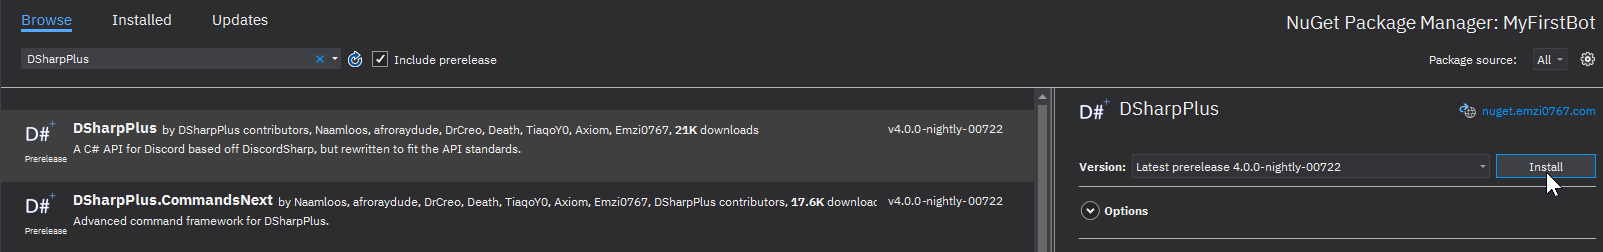
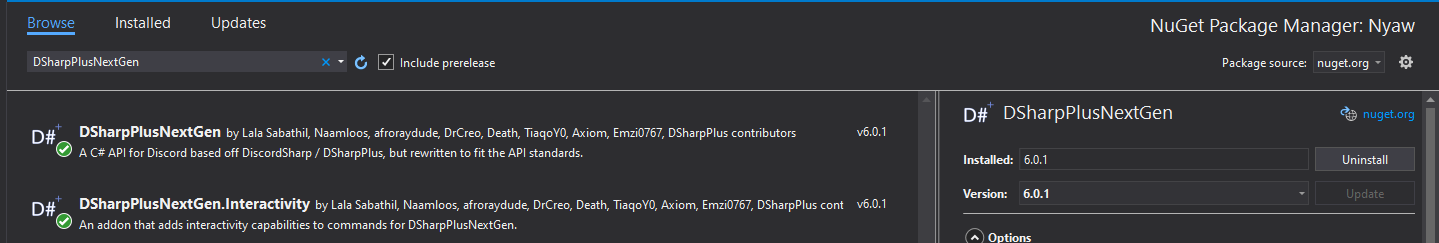
Updated first_bot.html

diff --git a/articles/basics/first_bot.html b/articles/basics/first_bot.html
@@ -97,15 +97,15 @@ If you&#39;d like, you can also change the directory that your project will be c
 Voilà! Your project has been created!</p>
 <p><img src="/images/basics_first_bot_04.png" alt="Visual Studio IDE"></p>
 <h2 id="install-package">Install Package</h2>
-<p>Now that you have a project created, you&#39;ll want to get DSharpPlus installed.
+<p>Now that you have a project created, you&#39;ll want to get DSharpPlus-NextGen installed.
 Locate the <em>solution explorer</em> on the right side, then right click on <code>Dependencies</code> and select <code>Manage NuGet Packages</code> from the context menu.</p>
 <p><img src="/images/basics_first_bot_05.png" alt="Dependencies Context Menu"></p>
 <p><br>
 You&#39;ll then be greeted by the NuGet package manager.</p>
-<p>Select the <code>Browse</code> tab towards the top left, then type <code>DSharpPlus</code> into the search text box with the Pre-release checkbox checked <strong>ON</strong>.</p>
+<p>Select the <code>Browse</code> tab towards the top left, then type <code>DSharpPlus-NextGen</code> into the search text box with the Pre-release checkbox checked <strong>ON</strong>.</p>
 <p><img src="/images/basics_first_bot_06.png" alt="NuGet Package Search"></p>
 <p><br>
-The first results should be the six DSharpPlus packages.</p>
+The first results should be the seven DSharpPlus-NextGen packages.</p>
 <p><img src="/images/basics_first_bot_07.png" alt="Search Results"></p>
 <table>
 <thead>
@@ -116,39 +116,43 @@ The first results should be the six DSharpPlus packages.</p>
 </thead>
 <tbody>
 <tr>
-<td style="text-align:center"><code>DSharpPlus</code></td>
+<td style="text-align:center"><code>DSharpPlusNextGen</code></td>
 <td style="text-align:center">Main package; Discord API client.</td>
 </tr>
 <tr>
-<td style="text-align:center"><code>DSharpPlus.CommandsNext</code></td>
+<td style="text-align:center"><code>DSharpPlusNextGen.CommandsNext</code></td>
 <td style="text-align:center">Add-on which provides a command framework.</td>
 </tr>
 <tr>
-<td style="text-align:center"><code>DSharpPlus.Interactivity</code></td>
+<td style="text-align:center"><code>DSharpPlusNextGen.Interactivity</code></td>
 <td style="text-align:center">Add-on which allows for interactive commands.</td>
 </tr>
 <tr>
-<td style="text-align:center"><code>DSharpPlus.Lavalink</code></td>
+<td style="text-align:center"><code>DSharpPlusNextGen.Lavalink</code></td>
 <td style="text-align:center">Client implementation for <a class="xref" href="../audio/lavalink/setup.html">Lavalink</a>. Useful for music bots.</td>
 </tr>
 <tr>
-<td style="text-align:center"><code>DSharpPlus.VoiceNext</code></td>
+<td style="text-align:center"><code>DSharpPlusNextGen.VoiceNext</code></td>
 <td style="text-align:center">Add-on which enables connectivity to Discord voice channels.</td>
 </tr>
 <tr>
-<td style="text-align:center"><code>DSharpPlus.Rest</code></td>
+  <td style="text-align:center"><code>DSharpPlusNextGen.SlashCommands</code></td>
+  <td style="text-align:center">Add-on which makes it easyer to work wiht slash commands.</td>
+</tr>
+<tr>
+<td style="text-align:center"><code>DSharpPlusNextGen.Rest</code></td>
 <td style="text-align:center">REST-only Discord client.</td>
 </tr>
 </tbody>
 </table>
 <p><br>
-We&#39;ll only need the <code>DSharpPlus</code> package for the basic bot we&#39;ll be writing in this article.<br>
-Select it from the list then click the <code>Install</code> button to the right (after verifing that you will be installing the <strong>latest 4.0 version</strong>).</p>
-<p><img src="/images/basics_first_bot_08.png" alt="Install DSharpPlus"></p>
+We&#39;ll only need the <code>DSharpPlus-NextGen</code> package for the basic bot we&#39;ll be writing in this article.<br>
+Select it from the list then click the <code>Install</code> button to the right (after verifing that you will be installing the <strong>latest 6.0.1 version</strong>).</p>
+<p><img src="/images/basics_first_bot_08.png" alt="Install DSharpPlus-NextGen"></p>
 <p>You&#39;re now ready to write some code!</p>
 <h2 id="first-lines-of-code">First Lines of Code</h2>
-<p>DSharpPlus implements <a href="https://docs.microsoft.com/en-us/dotnet/standard/asynchronous-programming-patterns/consuming-the-task-based-asynchronous-pattern">Task-based Asynchronous Pattern</a>.
-Because of this, the majority of DSharpPlus methods must be executed in a method marked as <code>async</code> so they can be properly <code>await</code>ed.</p>
+<p>DSharpPlus-NextGen implements <a href="https://docs.microsoft.com/en-us/dotnet/standard/asynchronous-programming-patterns/consuming-the-task-based-asynchronous-pattern">Task-based Asynchronous Pattern</a>.
+Because of this, the majority of DSharpPlus-NetxGen methods must be executed in a method marked as <code>async</code> so they can be properly <code>await</code>ed.</p>
 <p>Due to the way the compiler generates the underlying <a href="https://en.wikipedia.org/wiki/Common_Intermediate_Language">IL</a> code, 
 marking our <code>Main</code> method as <code>async</code> has the potential to cause problems. As a result, we must pass the program execution to an <code>async</code> method.</p>
 <p>Head back to your <em>Program.cs</em> tab and empty the <code>Main</code> method by deleting line 9.</p>
@@ -174,7 +178,7 @@ However, if you copy-pasted the snippet above, VS will complain about being unab
 We&#39;ll now create a new <code>DiscordClient</code> instance in our brand new asynchronous method.</p>
 <p>Create a new variable in <code>MainAsync</code> and assign it a new <code>DiscordClient</code> instance, then pass an instance of <code>DiscordConfiguration</code> to its constructor.
 Create an object initializer for <code>DiscordConfiguration</code> and populate the <code>Token</code> property with your bot token then set the <code>TokenType</code> property to <code>TokenType.Bot</code>.
-Next add the <code>Intents</code> Property and Populated it with the @DSharpPlus.DiscordIntents.AllUnprivileged value. These Intents 
+Next add the <code>Intents</code> Property and Populated it with the @DSharpPlusNextGen.DiscordIntents.AllUnprivileged value. These Intents 
 are required for certain Events to be fired.  Please visit this <a class="xref" href="../beyond_basics/intents.html">article</a> for more information.</p>
 <pre><code class="lang-cs">var discord = new DiscordClient(new DiscordConfiguration()
 {
@@ -193,7 +197,7 @@ await discord.ConnectAsync();
 await Task.Delay(-1);
 </code></pre><p>As before, Intellisense will have auto generated the needed <code>using</code> directive for you if you typed this in by hand.<br>
 If you&#39;ve copied the snippet, be sure to apply the recommended suggestion to insert the required directive.</p>
-<p>If you hit <code>F5</code> on your keyboard to compile and run your program, you&#39;ll be greeted by a happy little console with a single log message from DSharpPlus. Woo hoo!</p>
+<p>If you hit <code>F5</code> on your keyboard to compile and run your program, you&#39;ll be greeted by a happy little console with a single log message from DSharpPlusNextGen. Woo hoo!</p>
 <p><img src="/images/basics_first_bot_12.png" alt="Program Console"></p>
 <h2 id="spicing-up-your-bot">Spicing Up Your Bot</h2>
 <p>Right now our bot doesn&#39;t do a whole lot. Let&#39;s bring it to life by having it respond to a message!</p>
@@ -215,7 +219,7 @@ a message using <code>e.Message.RespondAsync</code> if it does. For this example
 <p>Your entire program should now look like this:</p>
 <pre><code class="lang-cs">using System;
 using System.Threading.Tasks;
-using DSharpPlus;
+using DSharpPlusNextGen;
 
 namespace MyFirstBot
 {
